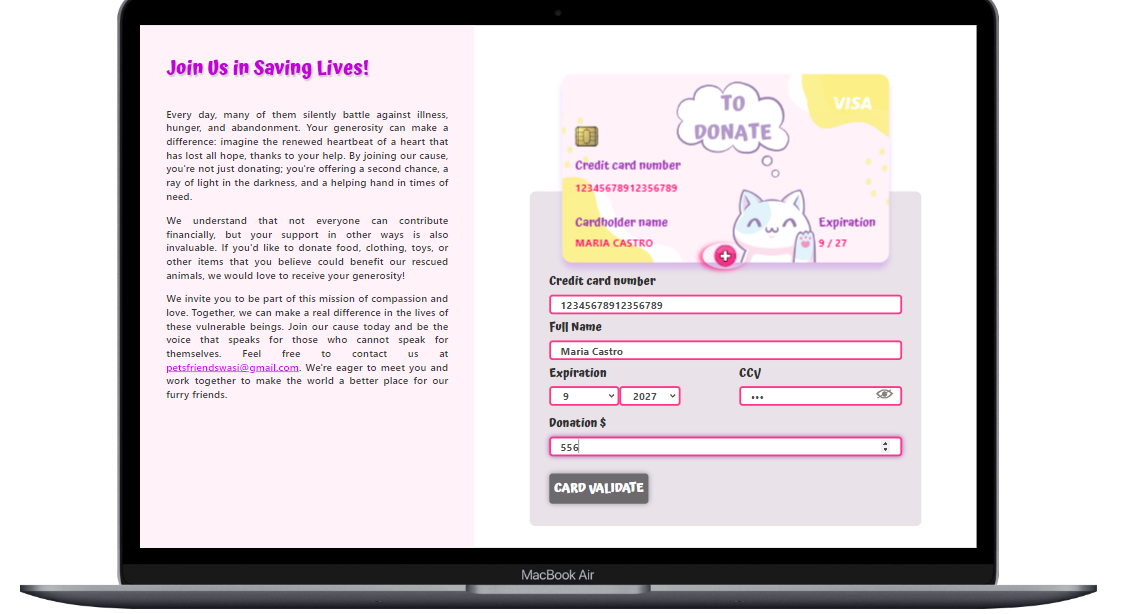
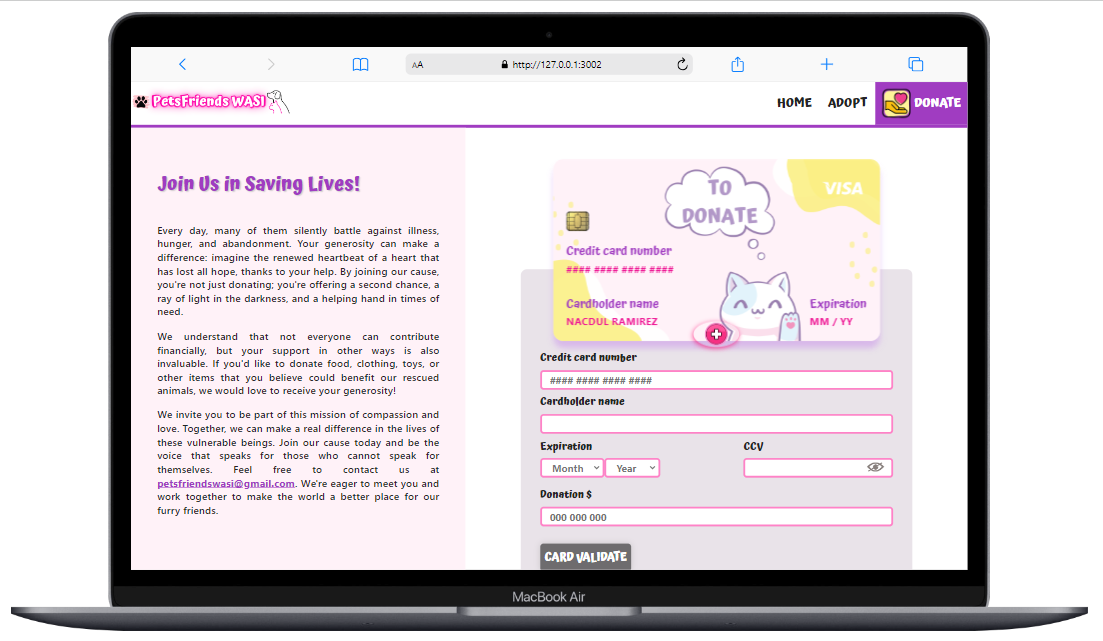
añadiendo padding a la tarjeta para que se separe de la barra de menú

diff --git a/src/style.css b/src/style.css
@@ -677,7 +677,7 @@ height: auto;
   /*-- como rotamos la posición de flexbox de horizontal a vertical, debemos de invertir el alineado con el aling items center--*/
   /*-- por eso utilizamos el align porque debemos invertir el alineado centrado a horizontal--*/
   align-items: center;
-  padding-top: 3em;
+  padding-top: 4em;
 }
 .clearfix::after {
   content: "";
@@ -848,7 +848,7 @@ height: auto;
   color: #242424;
   width: 90%;
   max-width: 600px;
-  padding: 125px 30px 15px 30px;
+  padding: 124px 30px 10px 30px;
   border-radius: 10px;
   position: relative;
   top: -154px;
@@ -875,7 +875,7 @@ height: auto;
   font-size: 0.95em;
   height: 30px;
   width: 100%;
-  padding: 1px 15px;
+  padding: 1px 12px;
   border-radius: 5px;
   cursor: pointer;
   font-family: system-ui;
